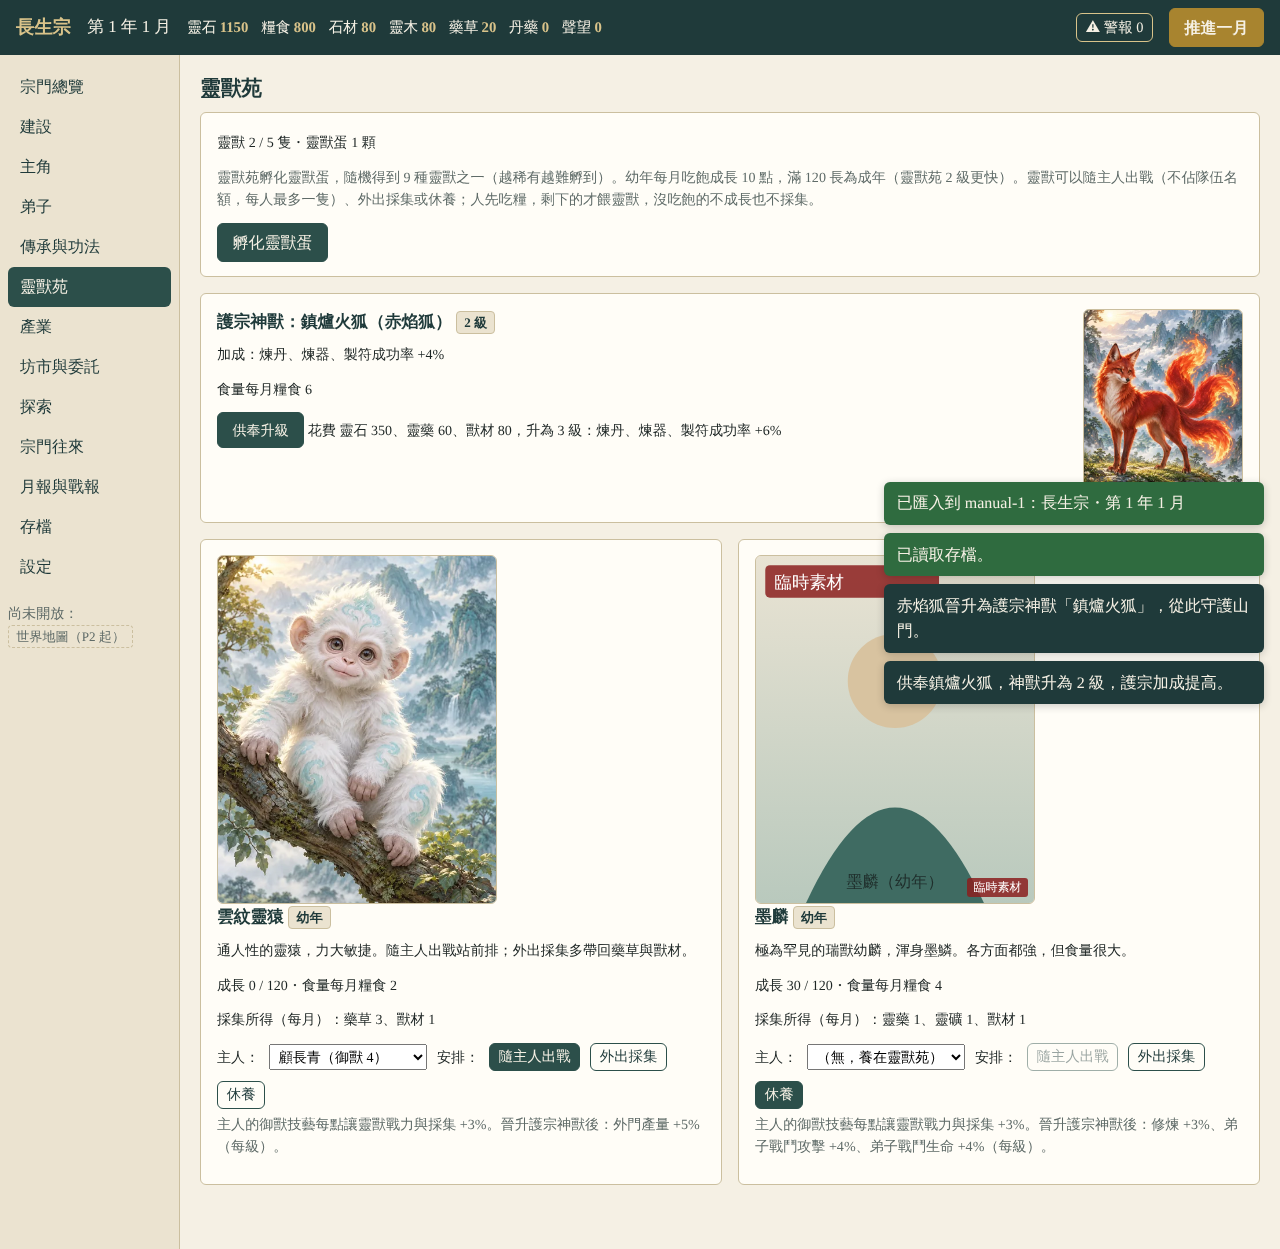
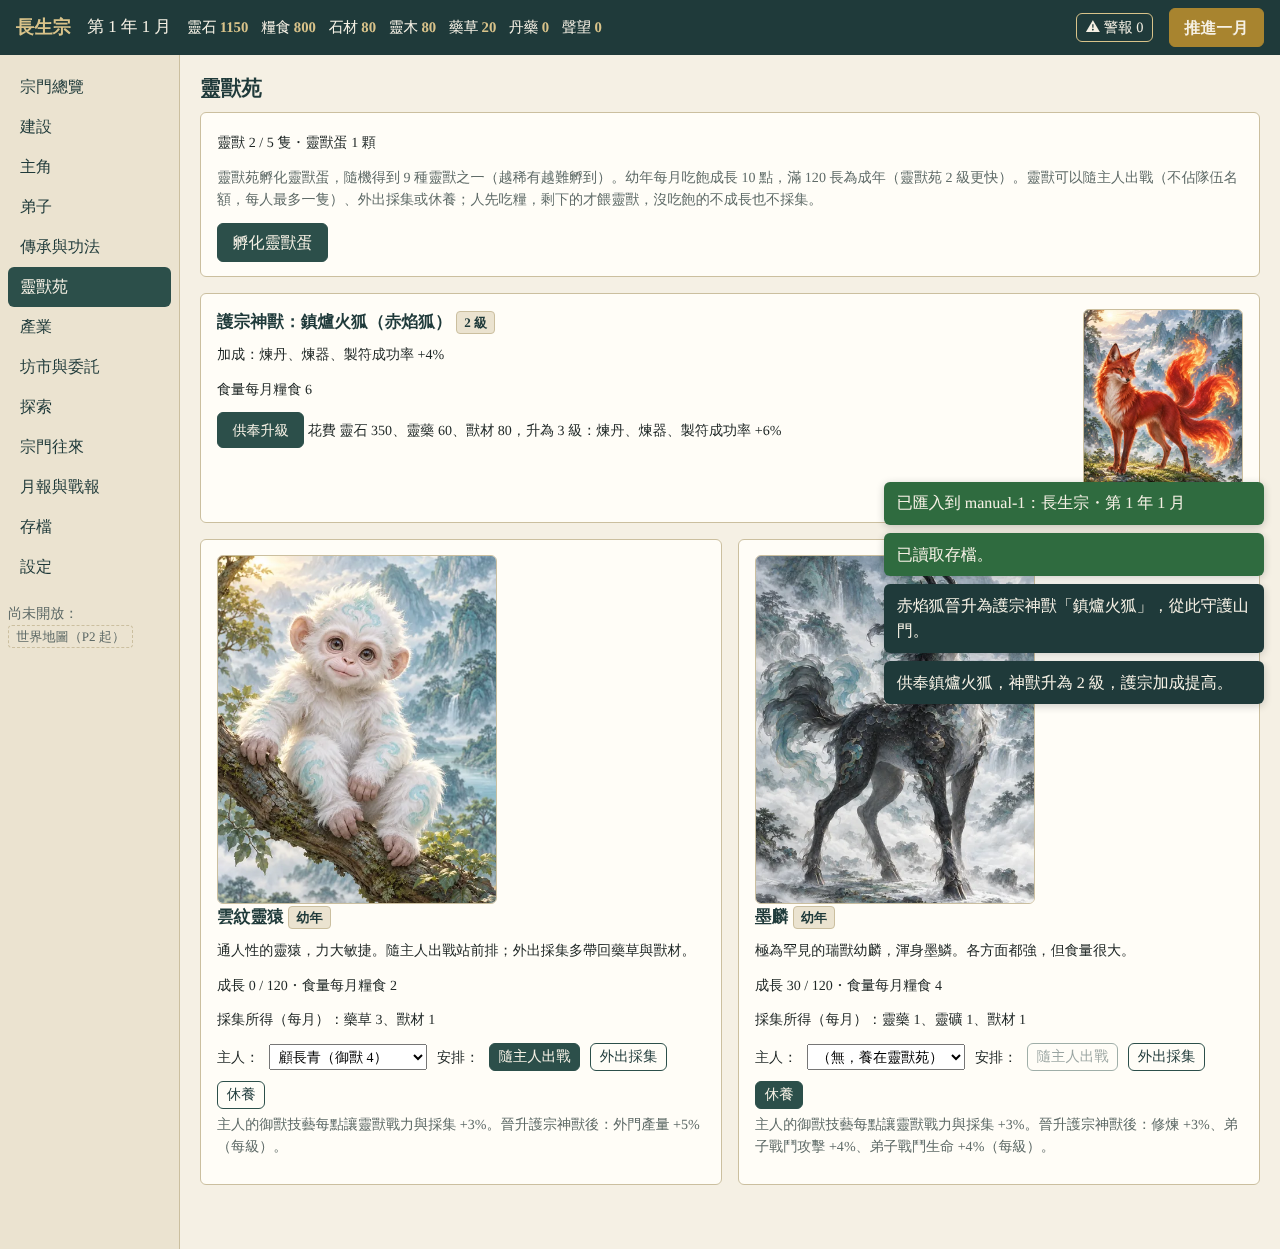
Use final art for the six new beast species
Claude-Session: https://claude.ai/code/session_01G4DnoQkUmoVCq4cU8KZZsi

Changed region(s): [[0.5938, 0.4371, 0.8125, 0.7494], [0.7812, 0.4996, 0.8125, 0.5308]]

diff --git a/src/content/beasts/index.ts b/src/content/beasts/index.ts
@@ -76,8 +76,8 @@ export const beastSpecies: BeastSpeciesDef[] = [
     food: 3,
     weight: 8,
     guardian: guardian({ title: '嘯月霜狼', atkPct: 6 }),
-    art: 'placeholder/beast-frost-wolf.svg',
-    artAdult: 'placeholder/beast-frost-wolf-adult.svg',
+    art: 'final/beast-frost-wolf.webp',
+    artAdult: 'final/beast-frost-wolf-adult.webp',
   },
   {
     id: 'beast.azure_luan',
@@ -92,8 +92,8 @@ export const beastSpecies: BeastSpeciesDef[] = [
     food: 2,
     weight: 6,
     guardian: guardian({ title: '棲梧青鸞', xpPct: 4 }),
-    art: 'placeholder/beast-azure-luan.svg',
-    artAdult: 'placeholder/beast-azure-luan-adult.svg',
+    art: 'final/beast-azure-luan.webp',
+    artAdult: 'final/beast-azure-luan-adult.webp',
   },
   {
     id: 'beast.gold_toad',
@@ -108,8 +108,8 @@ export const beastSpecies: BeastSpeciesDef[] = [
     food: 2,
     weight: 4,
     guardian: guardian({ title: '聚寶金蟾', monthly: { lingshi: 15 } }),
-    art: 'placeholder/beast-gold-toad.svg',
-    artAdult: 'placeholder/beast-gold-toad-adult.svg',
+    art: 'final/beast-gold-toad.webp',
+    artAdult: 'final/beast-gold-toad-adult.webp',
   },
   {
     id: 'beast.pangolin',
@@ -124,8 +124,8 @@ export const beastSpecies: BeastSpeciesDef[] = [
     food: 2,
     weight: 8,
     guardian: guardian({ title: '地脈穿山獸', monthly: { stone: 4, ore: 3 } }),
-    art: 'placeholder/beast-pangolin.svg',
-    artAdult: 'placeholder/beast-pangolin-adult.svg',
+    art: 'final/beast-pangolin.webp',
+    artAdult: 'final/beast-pangolin-adult.webp',
   },
   {
     id: 'beast.jade_rabbit',
@@ -140,8 +140,8 @@ export const beastSpecies: BeastSpeciesDef[] = [
     food: 1,
     weight: 10,
     guardian: guardian({ title: '搗藥玉兔', monthly: { food: 8, herb: 3 } }),
-    art: 'placeholder/beast-jade-rabbit.svg',
-    artAdult: 'placeholder/beast-jade-rabbit-adult.svg',
+    art: 'final/beast-jade-rabbit.webp',
+    artAdult: 'final/beast-jade-rabbit-adult.webp',
   },
   {
     id: 'beast.ink_qilin',
@@ -156,7 +156,7 @@ export const beastSpecies: BeastSpeciesDef[] = [
     food: 4,
     weight: 2,
     guardian: guardian({ title: '瑞獸墨麟', xpPct: 3, atkPct: 4, hpPct: 4 }),
-    art: 'placeholder/beast-ink-qilin.svg',
-    artAdult: 'placeholder/beast-ink-qilin-adult.svg',
+    art: 'final/beast-ink-qilin.webp',
+    artAdult: 'final/beast-ink-qilin-adult.webp',
   },
 ];

diff --git a/docs/素材清單.md b/docs/素材清單.md
@@ -71,23 +71,30 @@
 | assets/final/sect-chixia.webp | 赤霞門 | sect-chixia-v1.png | 裁切 1536×960，縮為 960×600 |
 | assets/final/sect-luoyun.webp | 落雲谷 | sect-luoyun-v1.png | 裁切 1536×960，縮為 960×600 |
 
+## 正式素材（第 5 版：P1 批次 F 新靈獸，2026-10-18）
+
+使用者以 ChatGPT 生成後提供，Claude 裁切並轉成 webp（品質 82）。原始檔保存在專案資料夾 `docs/插圖原檔/v5/`。青羽鸞成年收到兩張，採用較乾淨的一張，另一張存為 `beast-azure-luan-adult-alt-v1.png` 備用。
+
+| 檔案 | 用途 | 原始檔 | 處理 |
+|---|---|---|---|
+| assets/final/beast-frost-wolf.webp | 霜牙狼（幼年） | beast-frost-wolf-v1.png | 裁切 y=128 起 1024×1280，縮為 480×600 |
+| assets/final/beast-frost-wolf-adult.webp | 霜牙狼（成年） | beast-frost-wolf-adult-v1.png | 裁切 y=100 起 1024×1280，縮為 480×600 |
+| assets/final/beast-azure-luan.webp | 青羽鸞（幼年） | beast-azure-luan-v1.png | 裁切 y=128 起 1024×1280，縮為 480×600 |
+| assets/final/beast-azure-luan-adult.webp | 青羽鸞（成年） | beast-azure-luan-adult-v1.png | 裁切 y=40 起 1024×1280，縮為 480×600 |
+| assets/final/beast-gold-toad.webp | 金蟾（幼年） | beast-gold-toad-v1.png | 裁切 y=128 起 1024×1280，縮為 480×600 |
+| assets/final/beast-gold-toad-adult.webp | 金蟾（成年） | beast-gold-toad-adult-v1.png | 裁切 y=128 起 1024×1280，縮為 480×600 |
+| assets/final/beast-pangolin.webp | 穿山獸（幼年） | beast-pangolin-v1.png | 裁切 y=128 起 1024×1280，縮為 480×600 |
+| assets/final/beast-pangolin-adult.webp | 穿山獸（成年） | beast-pangolin-adult-v1.png | 裁切 y=128 起 1024×1280，縮為 480×600 |
+| assets/final/beast-jade-rabbit.webp | 玉兔（幼年） | beast-jade-rabbit-v1.png | 裁切 y=128 起 1024×1280，縮為 480×600 |
+| assets/final/beast-jade-rabbit-adult.webp | 玉兔（成年） | beast-jade-rabbit-adult-v1.png | 裁切 y=80 起 1024×1280，縮為 480×600 |
+| assets/final/beast-ink-qilin.webp | 墨麟（幼年） | beast-ink-qilin-v1.png | 裁切 y=128 起 1024×1280，縮為 480×600 |
+| assets/final/beast-ink-qilin-adult.webp | 墨麟（成年） | beast-ink-qilin-adult-v1.png | 裁切 y=40 起 1024×1280，縮為 480×600 |
+
 ## 臨時素材（遊戲使用中，等待正式圖）
 
 | 檔案 | 用途 | 來源 |
 |---|---|---|
 | assets/placeholder/realm-ruins.svg | 古修遺跡（秘境） | `tools/make-placeholders.ts` 程式產生；正式圖指令見插圖ChatGPT指令「P1 批次 C、D、E」 |
-| assets/placeholder/beast-frost-wolf.svg | 霜牙狼（幼年） | `tools/make-placeholders.ts` 程式產生；正式圖指令見插圖ChatGPT指令「P1 批次 F」 |
-| assets/placeholder/beast-frost-wolf-adult.svg | 霜牙狼（成年） | `tools/make-placeholders.ts` 程式產生；正式圖指令見插圖ChatGPT指令「P1 批次 F」 |
-| assets/placeholder/beast-azure-luan.svg | 青羽鸞（幼年） | `tools/make-placeholders.ts` 程式產生；正式圖指令見插圖ChatGPT指令「P1 批次 F」 |
-| assets/placeholder/beast-azure-luan-adult.svg | 青羽鸞（成年） | `tools/make-placeholders.ts` 程式產生；正式圖指令見插圖ChatGPT指令「P1 批次 F」 |
-| assets/placeholder/beast-gold-toad.svg | 金蟾（幼年） | `tools/make-placeholders.ts` 程式產生；正式圖指令見插圖ChatGPT指令「P1 批次 F」 |
-| assets/placeholder/beast-gold-toad-adult.svg | 金蟾（成年） | `tools/make-placeholders.ts` 程式產生；正式圖指令見插圖ChatGPT指令「P1 批次 F」 |
-| assets/placeholder/beast-pangolin.svg | 穿山獸（幼年） | `tools/make-placeholders.ts` 程式產生；正式圖指令見插圖ChatGPT指令「P1 批次 F」 |
-| assets/placeholder/beast-pangolin-adult.svg | 穿山獸（成年） | `tools/make-placeholders.ts` 程式產生；正式圖指令見插圖ChatGPT指令「P1 批次 F」 |
-| assets/placeholder/beast-jade-rabbit.svg | 玉兔（幼年） | `tools/make-placeholders.ts` 程式產生；正式圖指令見插圖ChatGPT指令「P1 批次 F」 |
-| assets/placeholder/beast-jade-rabbit-adult.svg | 玉兔（成年） | `tools/make-placeholders.ts` 程式產生；正式圖指令見插圖ChatGPT指令「P1 批次 F」 |
-| assets/placeholder/beast-ink-qilin.svg | 墨麟（幼年） | `tools/make-placeholders.ts` 程式產生；正式圖指令見插圖ChatGPT指令「P1 批次 F」 |
-| assets/placeholder/beast-ink-qilin-adult.svg | 墨麟（成年） | `tools/make-placeholders.ts` 程式產生；正式圖指令見插圖ChatGPT指令「P1 批次 F」 |
 
 ## 臨時素材（保留備用，遊戲已不使用）
 

diff --git a/docs/開發進度.md b/docs/開發進度.md
@@ -51,7 +51,7 @@
 | P1-22 | E | P1 驗收 | ✱ | 自動驗收完成；等使用者試玩 |
 | P1-24 | F | 靈獸 9 種與孵化稀有度 | ✓ | 測試：孵 3400 次九種都出現、比例接近權重、墨麟最少 |
 | P1-25 | F | 護宗神獸 | ✓ | 測試：靈獸苑 1 級或幼獸不能晉升、全宗一隻、不佔名額、不能再出戰、食量 2 倍；火狐成功率 +2%、靈猿產量增加、青鸞修煉 +4%、霜狼攻擊、玄龜生命、金蟾每月靈石 +15；供奉到 3 級後不能再升；挨餓下月暫停、吃飽恢復；存檔讀回保留。瀏覽器：晉升、供奉（P1F 截圖 01）。模擬見暫定數值文件 |
-| P1-23 | 各批 | 插圖指令與正式圖 | ✱ | 批次 A、B 的 10 張與批次 C–E 的 15 張正式圖已換上；還缺古修遺跡、9 種新敵人、批次 F 的 12 張新靈獸 |
+| P1-23 | 各批 | 插圖指令與正式圖 | ✱ | 批次 A、B 的 10 張與批次 C–E 的 15 張正式圖已換上；批次 F 的 12 張新靈獸也已換上；還缺古修遺跡與 9 種新敵人 |
 
 ### 批次 A 驗收結果（2026-10-18）
 
